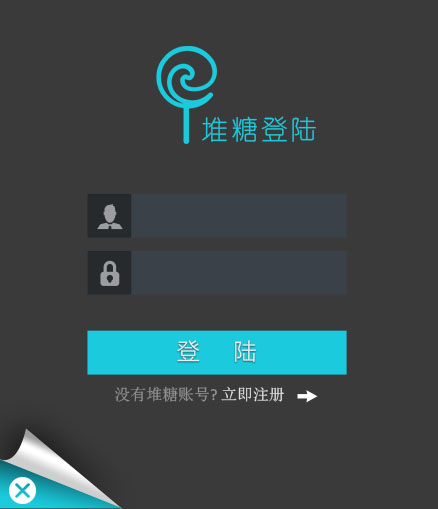
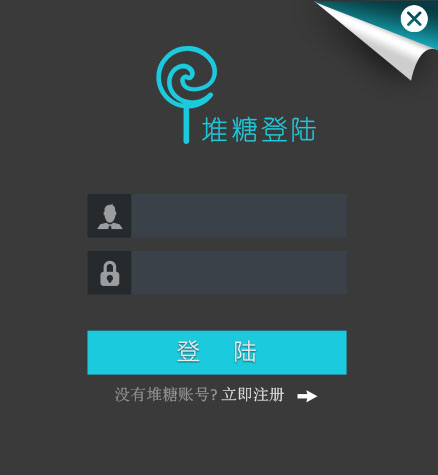
修复弹出框居中显示问题

diff --git a/DGP/src/a/view/Login2.java b/DGP/src/a/view/Login2.java
@@ -28,7 +28,7 @@ public class Login2 extends JFrame {
 	private JTextField username;
 	private JPasswordField password;
 	Login2() {
-		this.setSize(438, 509);
+		this.setSize(438, 475);
 		this.setUndecorated(true);
 		this.setLocationRelativeTo(null);
 		backgroudInit();
@@ -48,7 +48,7 @@ public class Login2 extends JFrame {
 
 			}
 		};
-		bg.setSize(800, 600);
+		bg.setSize(438, 475);
 		bg.setLayout(null);
 		this.add(bg);
 	}
@@ -118,18 +118,21 @@ public class Login2 extends JFrame {
 			public void mouseClicked(MouseEvent e) {
 				int x=e.getX();
 				int y=e.getY();
-				if(x>10&&x<36 && y>475&&y<506) {
+				if(x>398&&x<430 && y>6&&y<33) {
 					System.exit(0);
 				}else if(x>87&&x<347 && y>331&&y<375) {
 					
 					
 					String usernamestr=username.getText().trim();
 					String passwordstr=password.getText().trim();
-					
+					if(usernamestr.equals("")||passwordstr.equals("")) {
+						JOptionPane.showMessageDialog(getThis(), "账号或者密码不能为空", "警告", JOptionPane.ERROR_MESSAGE);
+						return;
+					}
 					UserInfoService user=new UserInfoService();
 					boolean isUser=user.login(usernamestr,passwordstr);
 					if(!isUser) {
-						JOptionPane.showMessageDialog(null, "账号或者密码错误", "警告", JOptionPane.ERROR_MESSAGE);
+						JOptionPane.showMessageDialog(getThis(), "账号或者密码错误", "警告", JOptionPane.ERROR_MESSAGE);
 					}else {
 						close();
 						new GameMain();
@@ -144,6 +147,9 @@ public class Login2 extends JFrame {
 	}
 	public void close() {
 		this.dispose();
+	}
+	public Login2 getThis(){
+		return this;
 	}
 	public static void main(String[] args) {
 		new Login2();
